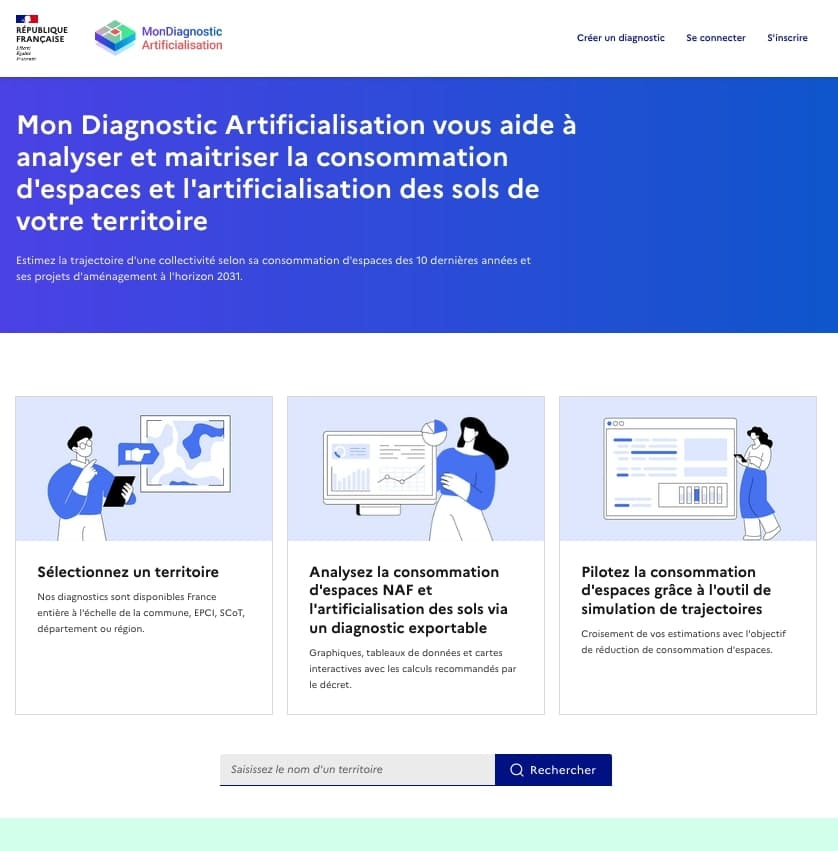
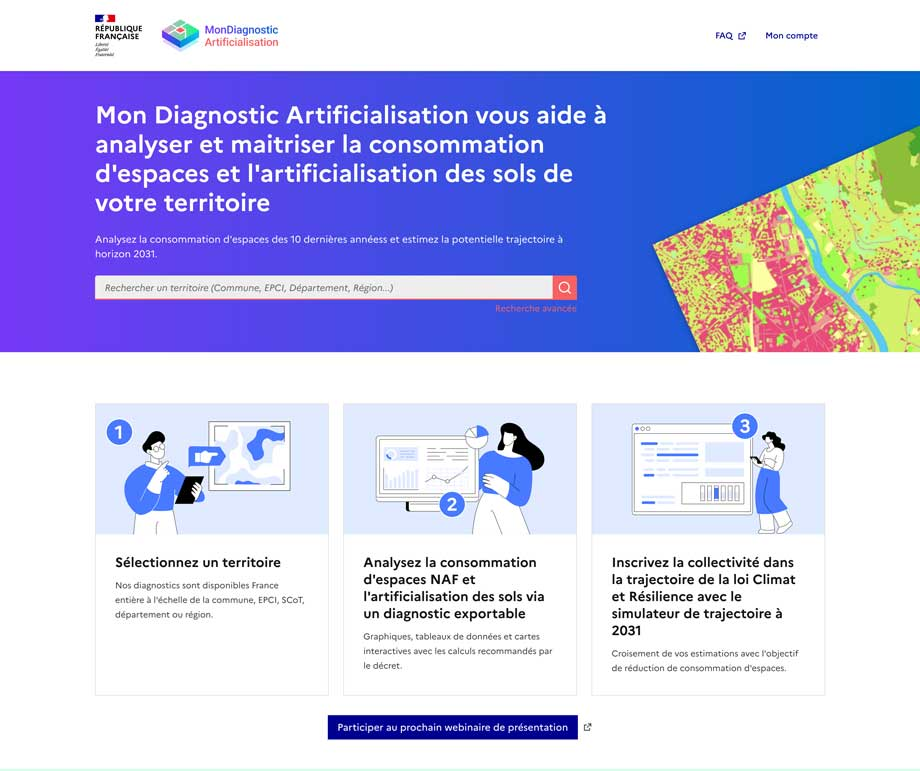
Remove miscellaneous trajectory occurences

diff --git a/home/templates/home/home.html b/home/templates/home/home.html
@@ -23,7 +23,7 @@
         <h1 class="fr-mb-0">Mon Diagnostic Artificialisation vous aide à analyser et maitriser la consommation d'espaces et l'artificialisation des sols de votre territoire</h1>
       </div>
       <div class="fr-col fr-col-12 fr-col-md-8">
-        <p>Estimez la trajectoire d'une collectivité selon sa consommation d'espaces des 10 dernières années et ses projets d'aménagement à l'horizon 2031.</p>
+        <p>Analysez la consommation d'espaces des 10 dernières annéess et estimez la potentielle trajectoire à horizon 2031.</p>
         {% include "project/partials/search.html" %}
       </div>
     </div>
@@ -70,7 +70,7 @@
         <div class="fr-card">
           <div class="fr-card__body">
             <div class="fr-card__content">
-              <h3 class="fr-card__title">Pilotez la consommation d'espaces grâce à l'outil de simulation de trajectoires</h3>
+              <h3 class="fr-card__title">Inscrivez la collectivité dans la trajectoire de la loi Climat et Résilience avec le simulateur de trajectoire à 2031</h3>
               <p class="fr-card__desc">Croisement de vos estimations avec l'objectif de réduction de consommation d'espaces.</p>
             </div>
           </div>

diff --git a/project/templates/project/report_menu.html b/project/templates/project/report_menu.html
@@ -88,7 +88,7 @@
             <div class="fr-container">
                 <div class="fr-notice__body">
                     <p class="fr-notice__title fr-text--sm">
-                        Vous êtes actuellement en mode "anonyme". Si vous souhaitez retrouver votre diagnostic ou vos trajectoires lors de votre prochaine visite
+                        Vous êtes actuellement en mode "anonyme". Si vous souhaitez retrouver votre diagnostic lors de votre prochaine visite
                         {% if user.is_authenticated %}
                             <a href="{% url 'project:claim' project.id %}" class="fr-link fr-link--sm fr-icon-arrow-right-line fr-link--icon-right">associez le à votre compte</a>.
                         {% else %}

diff --git a/project/templates/project/list.html b/project/templates/project/list.html
@@ -63,7 +63,7 @@ Mes diagnostics
 
                                 <a href="{% url 'project:trajectory:home' project.id %}" class="fr-link--text-decoration-none">
                                     <button class="fr-btn fr-btn--secondary fr-btn--icon-right fr-icon-arrow-right-line">
-                                        Piloter sa trajectoire
+                                        Simuler une trajectoire
                                     </button>
                                 </a>
                             </div>
